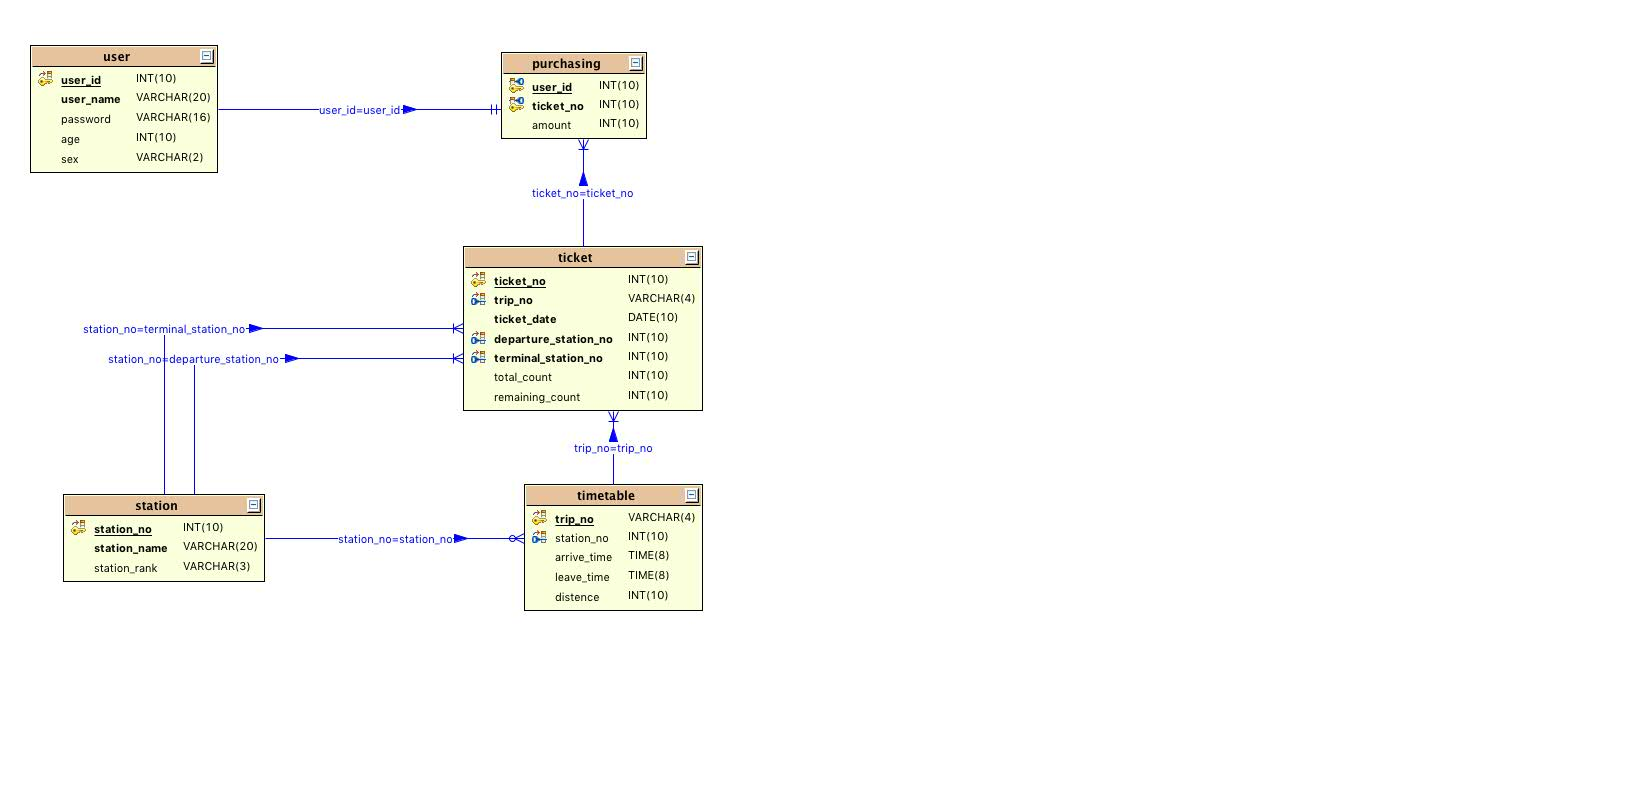
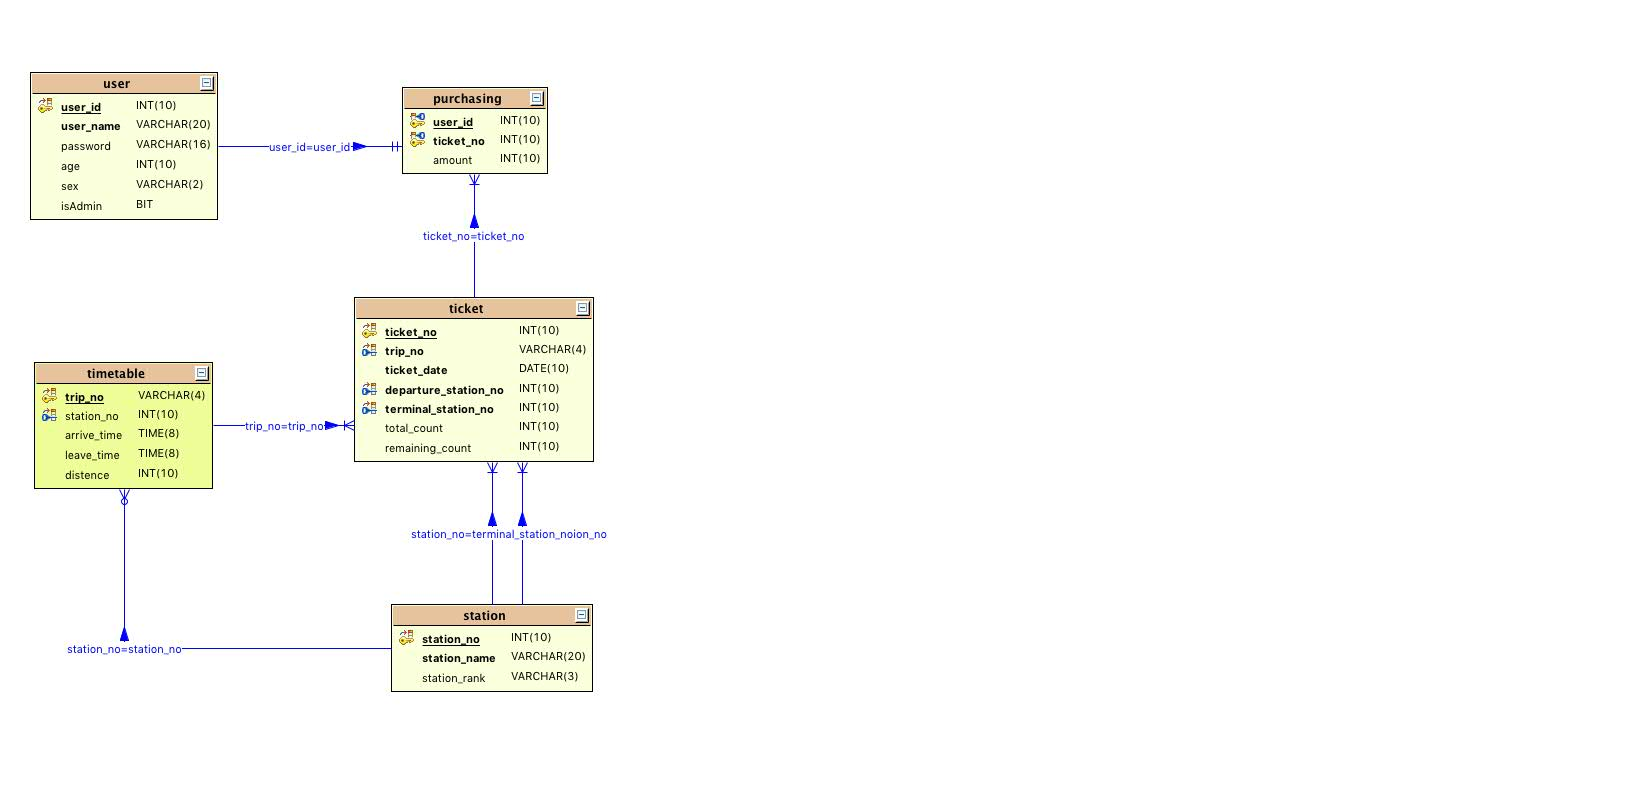
SQL Statement Test
修复ER图
更新SQL代码，添加几个关于用户注册登录的存储过程，在java代码中实现Transaction
定义调用不同SQL语句的方法

diff --git a/ExecSQL.java b/ExecSQL.java
@@ -1,0 +1,126 @@
+package db;
+
+import java.io.*;
+import java.util.*;
+import java.sql.*;
+/**
+ * Demo for JDBC connnetion.
+ * Created by Liu Wang (@author liuw53) 2015/12/30. All rights reserved.
+ * 
+ * */
+
+public class ExecSQL {
+	// the constant value for jdbc connection
+    public static final String DRIVER = "com.mysql.jdbc.Driver";
+    public static final String USER = "root";
+    public static final String PASS = "coolspring";
+    public static final String URL = "jdbc:mysql://localhost:3307/ticket_system";
+    
+    
+    //
+    private static ExecSQL per = null;
+    private Connection conn = null;
+    private Statement stmt = null;
+
+       
+    //
+    private ExecSQL() {
+    	System.out.println("--------STARTED----------");
+    	System.out.println(DRIVER + " " + USER + " " + PASS + " " + URL);
+    }
+    
+    //
+    public static ExecSQL createInstance() {
+    	if (null == per) {
+    		per = new ExecSQL();
+    		per.initDB();
+    	}
+    	return per;
+    }
+    
+    public void initDB() {
+    	 try {
+             Class.forName("com.mysql.jdbc.Driver");
+         } catch (Exception e) {
+        	 System.out.println("Not found Driver");
+             e.printStackTrace();
+         }
+    }
+     
+    public void connectDB() {
+        System.out.println("Connecting to database...");
+        try {
+            conn = DriverManager.getConnection(URL, USER, PASS);
+            stmt = conn.createStatement();
+        } catch (SQLException e) {
+            e.printStackTrace();
+        }
+        System.out.println("ExecSQL:Connect to database successful.");
+    }
+    
+    
+    public void closeDB() {
+        System.out.println("Close connection to database..");
+        try {
+            stmt.close();
+            conn.close();
+        } catch (SQLException e) {
+            e.printStackTrace();
+        }
+        System.out.println("Close connection successful");
+    }
+    
+    // 
+    
+    
+    public static void main (String []args) throws Exception {
+    	createInstance();
+    	per.connectDB();
+    	ResultSet re = per.executeQuery("select * from user;");
+    	int id = 0;
+    	String name = "No_Name";
+    	String pwd = "No_PAssword";
+    	int age = 0;
+    	String sex = "N";
+    	boolean isA = false;
+    	while(re.next()) {
+    		id = re.getInt("user_id");
+    		name = re.getString("user_name");
+    		pwd = re.getString("password");
+    		age = re.getInt("age");
+    		sex = re.getString("sex");
+    		isA = re.getBoolean("isAdmin");
+    		System.out.print(id); System.out.print("\t");
+    		System.out.print(name); System.out.print("\t");
+    		System.out.print(pwd); System.out.print("\t");
+    		System.out.print(age); System.out.print("\t");
+    		System.out.print(sex); System.out.print("\t");
+    		System.out.print(isA); System.out.print("\n");
+    	}
+    	Connection tmp;
+    	CallableStatement callStmt = tmp.prepareCall("{proc_register_user(?, ?, ?, ?, ?, ?)}");    	
+    	per.closeDB();
+    }
+    // 查询
+    public ResultSet executeQuery(String sql) {
+        ResultSet rs = null;
+        try {
+            rs = stmt.executeQuery(sql);
+        } catch (SQLException e) {
+            e.printStackTrace();
+        }
+        return rs;
+    }
+
+    // 增添/删除/修改
+    public int executeUpdate(String sql) {
+        int ret = 0;
+        try {
+            ret = stmt.executeUpdate(sql);
+        } catch (SQLException e) {
+            e.printStackTrace();
+        }
+        return ret;
+    }
+
+}
